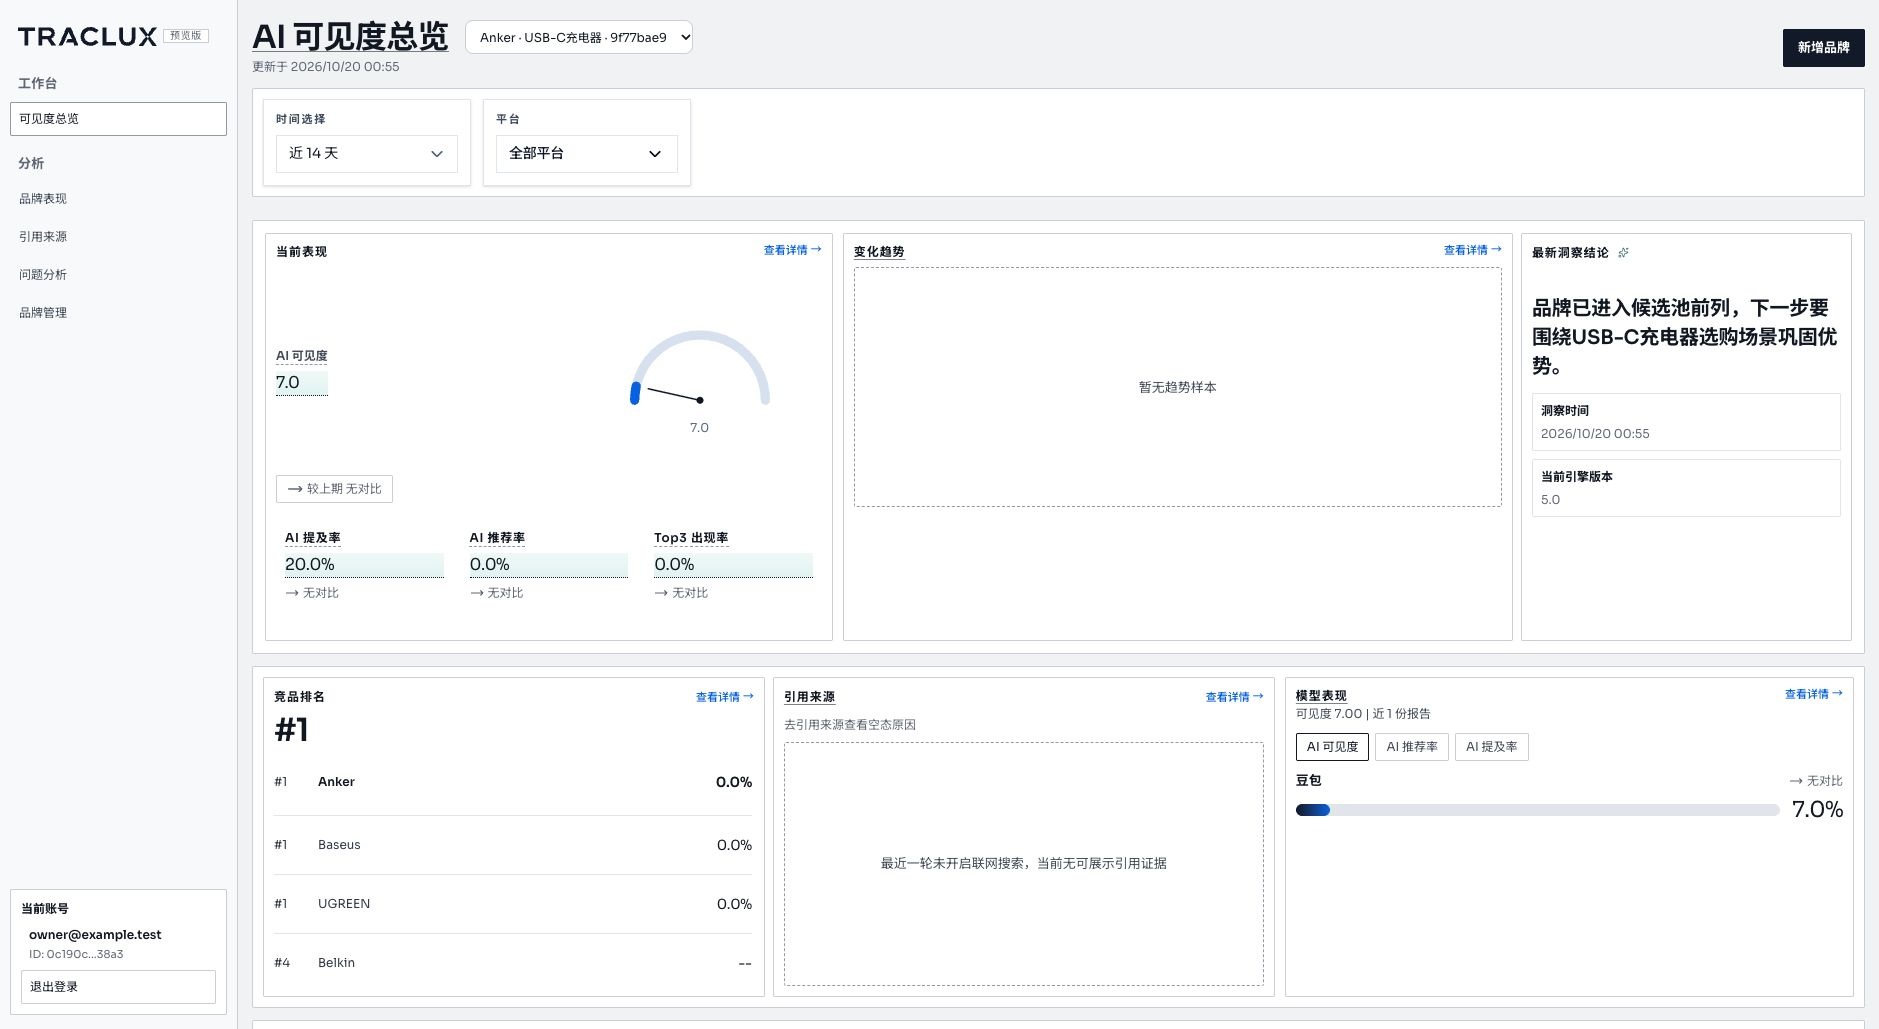
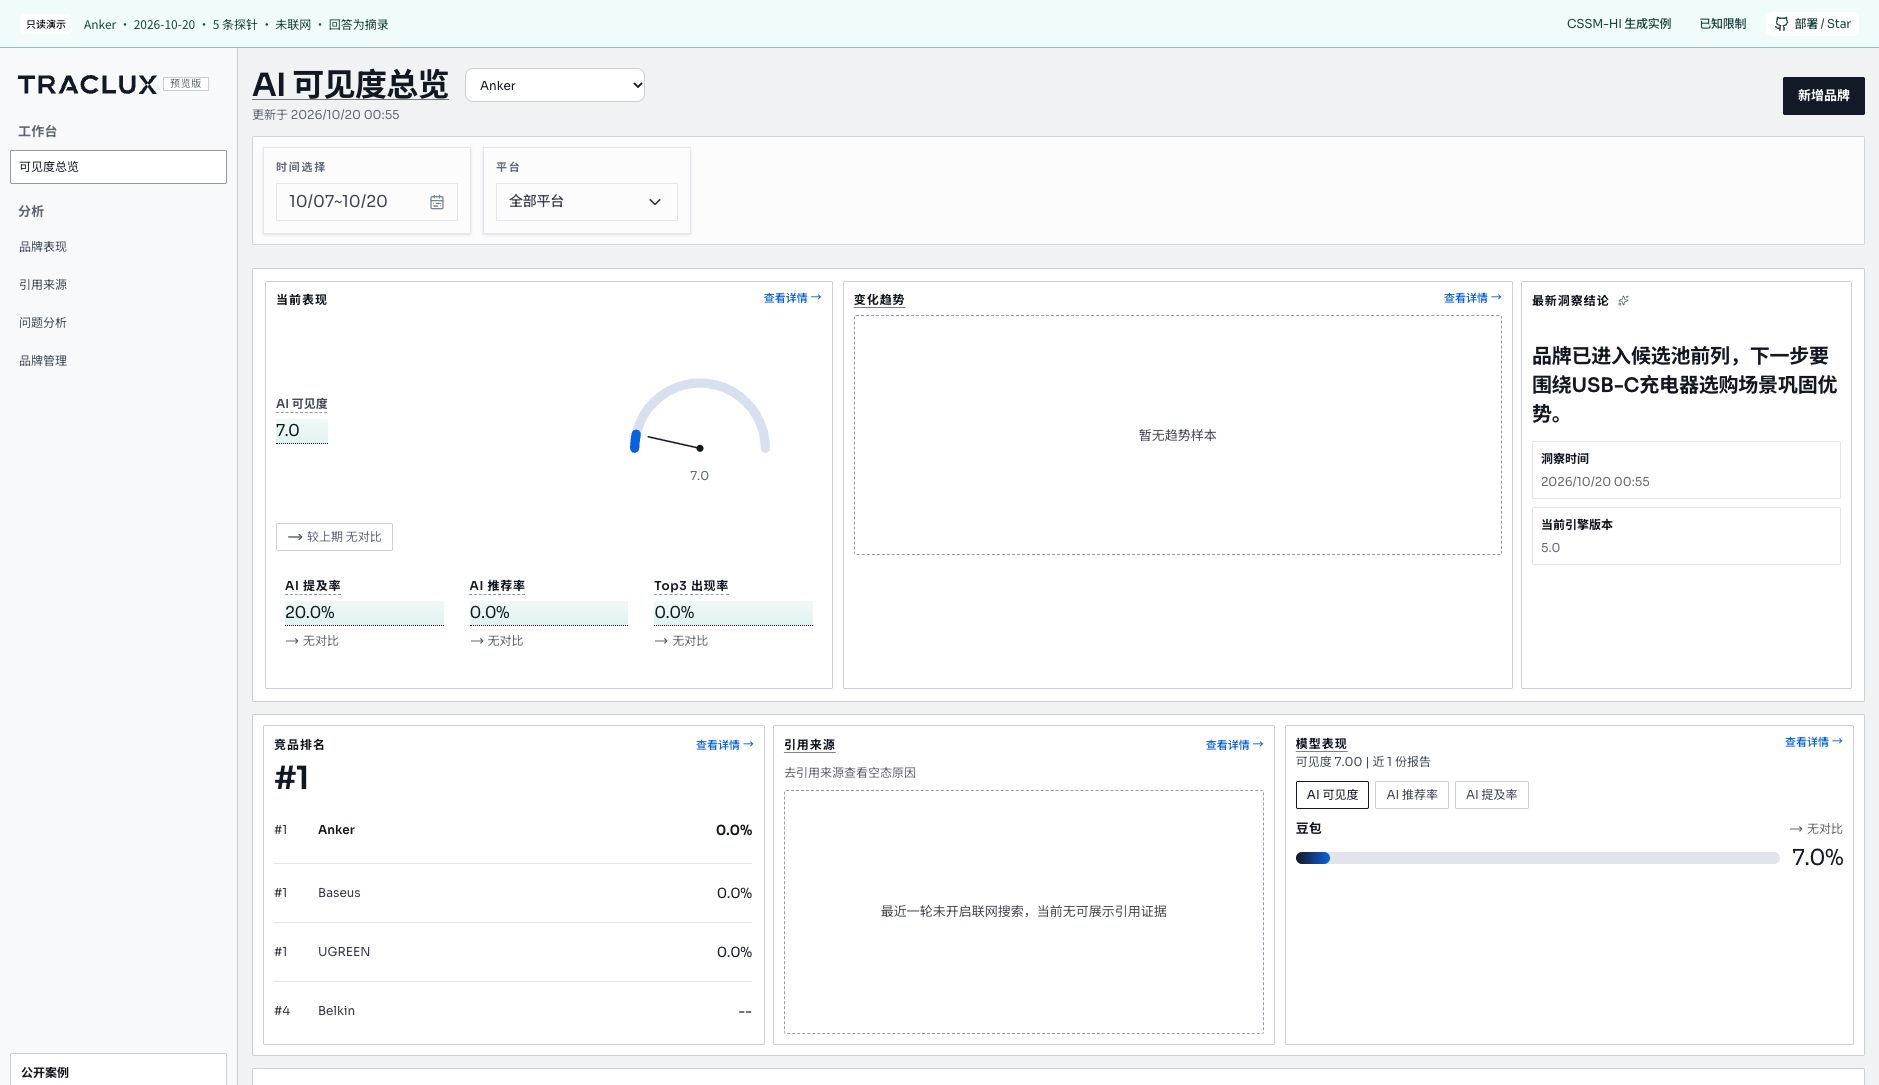
Remove test identity from workbench screenshots

diff --git a/docs/community/security-review.md b/docs/community/security-review.md
@@ -49,7 +49,8 @@ Local and CI source checks use `python3 scripts/release_check.py`; CI also build
 | Case data | One reviewed brand/run; answer excerpts match the approved case. No real user/account/contact fields, raw record UUIDs, private provider endpoints or credentials found in the current snapshot |
 | Removed remnants | Account-budget scheduling notes, unused debug-event projections and a redundant timeline record alias removed. Demo account ID, credit/settlement panels, account-removal action and old hosted-preview model availability copy no longer displayed; internal field-name warnings use case-specific explanations |
 | Build scope | Only reviewed workbench routes included; unused login, brand-creation and debug pages excluded. No client source maps generated |
-| Release check | Snapshot privacy checks run locally and in CI. New content still requires human review; pattern matching cannot recognize every kind of private information |
-| History boundary | Private credential comparison found no matches in reachable Git history. Two older versions of `validation.md` contained test run/brand record IDs; current files no longer contain them. They are identifiers, not credentials. This review does not rewrite repository history |
+| Release check | Snapshot privacy checks run locally and in CI. Screenshots and recordings also require visual review; text scans do not inspect image pixels |
+| Demo images | Both workbench screenshots replaced with the reviewed public demo. The old screenshot displayed a reserved test email and shortened record identifiers; other case images and the walkthrough were visually reviewed |
+| History boundary | Private credential comparison found no matches in reachable Git history. Older commits retain test run/brand record IDs in two versions of `validation.md` and a screenshot with a reserved test identity. Current files no longer expose them. These are test identifiers, not credentials. This review does not rewrite repository history |
 
 The saved questions, public brand/model names and sample dates remain to explain the case. This privacy review does not close the unrelated dependency and hosting findings above.

diff --git a/frontend/app/demo/README.md b/frontend/app/demo/README.md
@@ -17,6 +17,6 @@ python3 scripts/package_workbench_demo.py --output /tmp/traclux-demo-pages
 
 Serve the output under a `/traclux-probe/` directory so the production asset paths resolve. The primary entry redirects to `#/dashboard`; route refreshes do not need server rewrites.
 
-`scripts/check_workbench_privacy.py` runs in the source release gate and rejects unreviewed projection routes, personal contact fields, raw record UUIDs, credentials, private URLs, account/billing text and answers outside the reviewed excerpts. Human review is still required for new content.
+`scripts/check_workbench_privacy.py` runs in the source release gate and rejects unreviewed projection routes, personal contact fields, raw record UUIDs, credentials, private URLs, account/billing text and answers outside the reviewed excerpts. Human review is still required for new content, including visual checks of screenshots and recordings.
 
 Changes to the snapshot require review against the captured source and the approved answer excerpts. Do not add credentials or raw responses. Existing sample and summary limitations remain documented in [known limitations](../../../docs/community/known-limitations.md).
